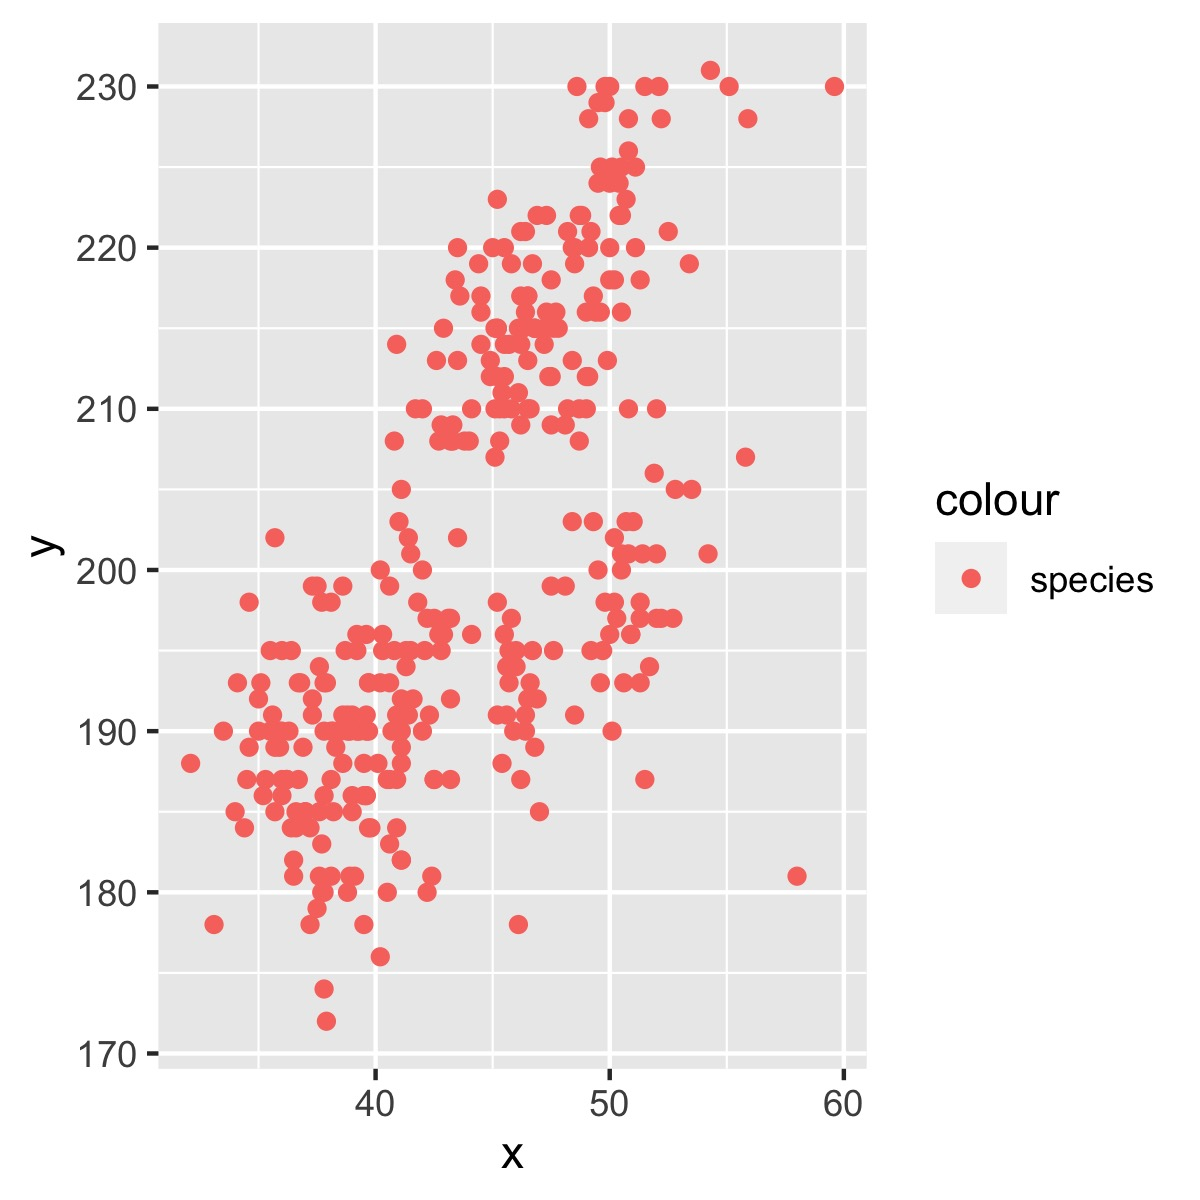
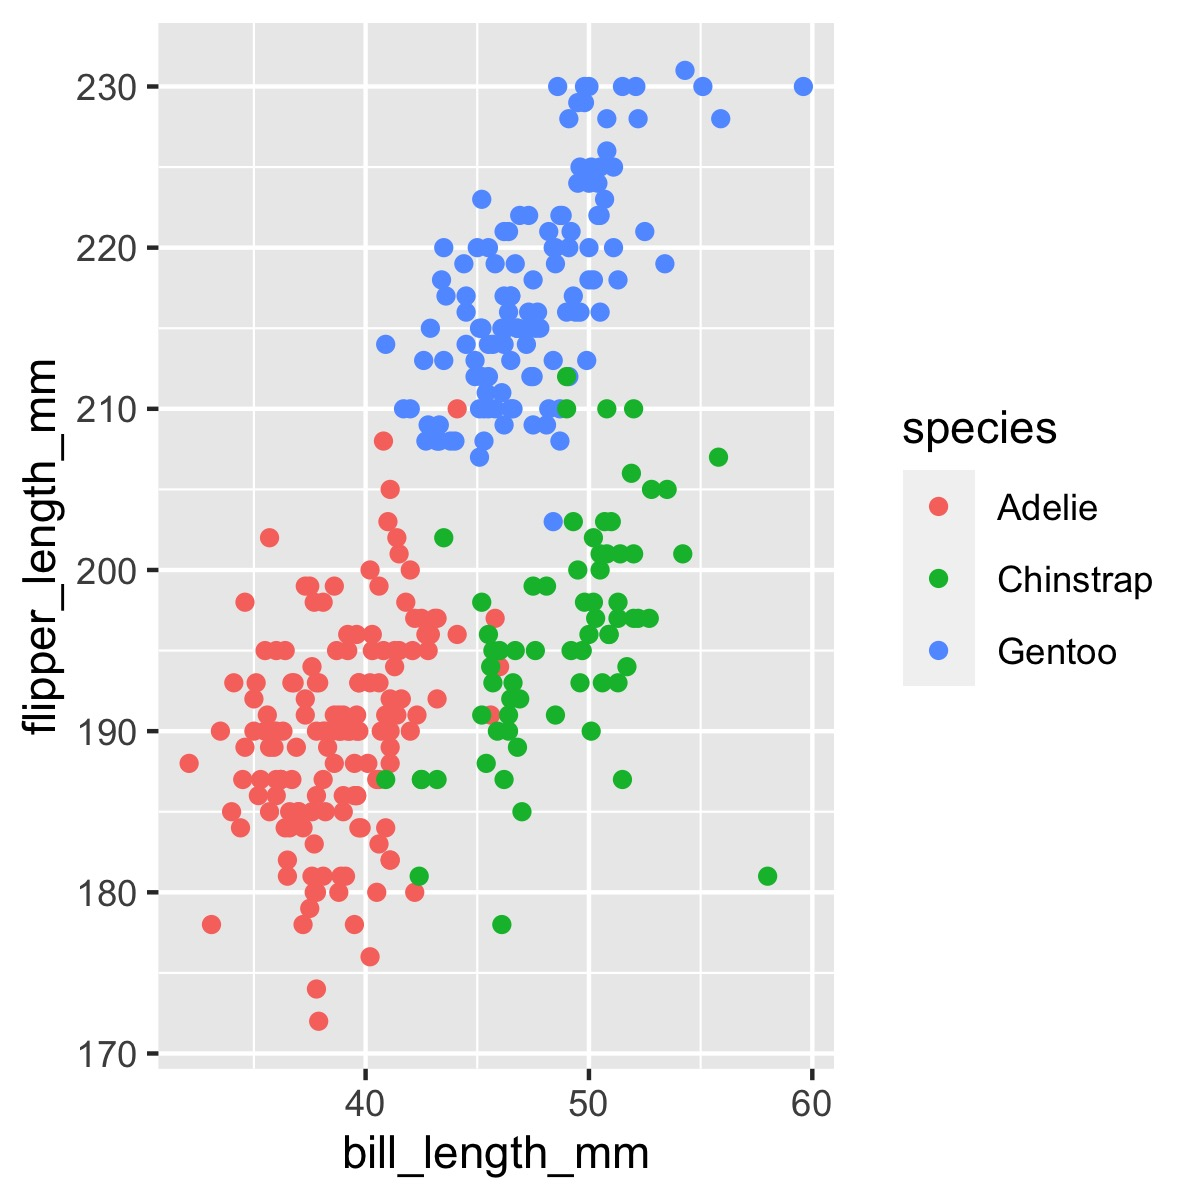
update

diff --git a/p8105_hw1_zh2494.md b/p8105_hw1_zh2494.md
@@ -24,16 +24,16 @@ problem_1_df
     ## # A tibble: 10 × 4
     ##    vec_numeric vec_logical vec_char vec_factor
     ##          <dbl> <lgl>       <chr>    <fct>     
-    ##  1      1.29   TRUE        a        high      
-    ##  2      1.16   TRUE        b        low       
-    ##  3     -0.0385 FALSE       c        median    
-    ##  4      2.34   TRUE        d        high      
-    ##  5      0.338  TRUE        e        low       
-    ##  6     -0.801  FALSE       f        median    
-    ##  7      0.0990 TRUE        g        high      
-    ##  8     -0.129  FALSE       h        low       
-    ##  9      0.601  TRUE        I        median    
-    ## 10     -1.74   FALSE       g        high
+    ##  1       1.25  TRUE        a        high      
+    ##  2       0.619 TRUE        b        low       
+    ##  3       0.591 TRUE        c        median    
+    ##  4      -0.842 FALSE       d        high      
+    ##  5      -0.527 FALSE       e        low       
+    ##  6      -1.21  FALSE       f        median    
+    ##  7       1.72  TRUE        g        high      
+    ##  8       1.36  TRUE        h        low       
+    ##  9      -1.02  FALSE       I        median    
+    ## 10       0.679 TRUE        g        high
 
 # section 3
 
@@ -50,7 +50,7 @@ mean_char = mean(as.numeric(pull(problem_1_df, vec_char)))
 mean_factor = mean(as.numeric(pull(problem_1_df, vec_factor)))
 ```
 
-The mean of the numeric number is 0.3114265 The mean of the numeric
+The mean of the numeric number is 0.2620353 The mean of the numeric
 number is 0.6 The mean of the numeric number is NA,the result is NA,
 because the charater is not converted to number. The mean of the numeric
 number is 1.9
@@ -117,11 +117,7 @@ mean of the flipper length is NA • The data frame penguins has 344 rows
 200.9152047
 
 ``` r
-plot_df = tibble(
-  x = pull(penguins,bill_length_mm),
-  y = pull(penguins,flipper_length_mm)
-)
-ggplot(plot_df, aes(x = x,y = y,color = 'species' )) + geom_point()
+ggplot(penguins, aes(x = bill_length_mm,y = flipper_length_mm,color = species)) + geom_point()
 ```
 
     ## Warning: Removed 2 rows containing missing values (geom_point).
